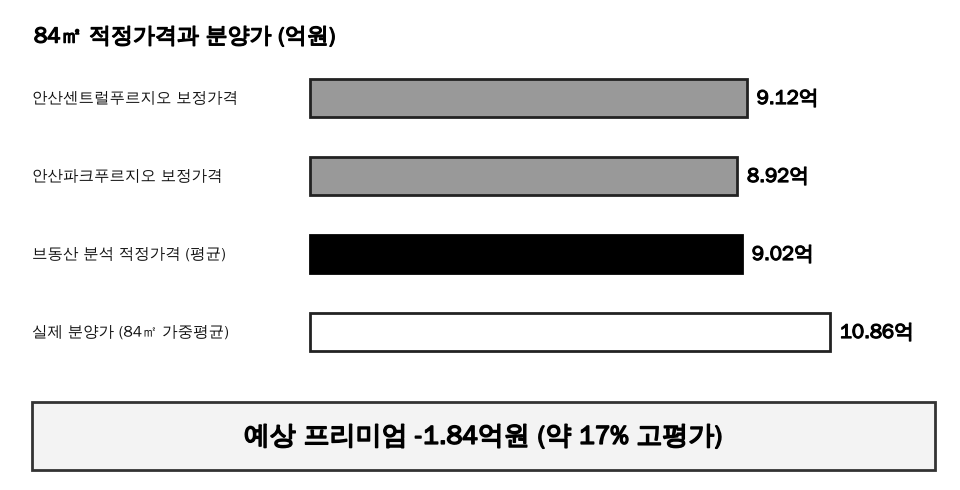
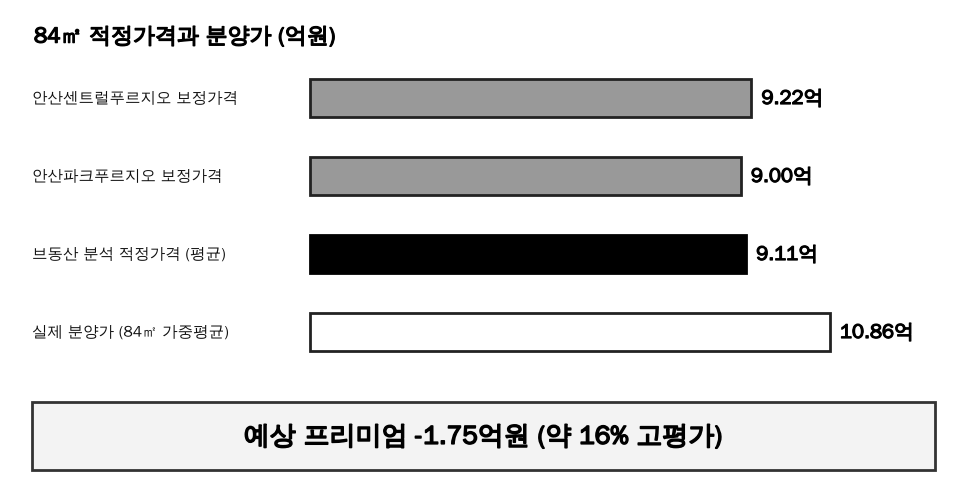
fix: 아르뮤제자이 상품성 breakdown (주차 확인 반영) -> 적정가 9.11억, 예상 프리미엄 -1.75억
Claude-Session: https://claude.ai/code/session_018qhGmvZYaq5WTE87hNjb3D

diff --git a/posts/armusee-xi-ansan.html b/posts/armusee-xi-ansan.html
@@ -200,7 +200,7 @@
 <body>
 <div class="top-eyebrow"><div class="wrap"><a class="brand-mark" href="https://brandongsan.com/"><span class="bm-b">브</span><span class="bm-rest">동산</span></a><a class="list-btn" href="https://brandongsan.com/realestate.html">☰ 목록</a></div></div>
 <div class="wrap">
-<div class="titleblock"><h1>경기 - 아르뮤제자이 | 안산 성포동 984세대 49층, 84㎡ 평균 분양가 10.86억, 예상 프리미엄은 -1.84억</h1></div>
+<div class="titleblock"><h1>경기 - 아르뮤제자이 | 안산 성포동 984세대 49층, 84㎡ 평균 분양가 10.86억, 예상 프리미엄은 -1.75억</h1></div>
 <div class="byline"><span class="avatar">브</span><span class="who">브동산</span><span class="dot">·</span><span class="when">2026. 11. 2</span><span class="tag">청약 언박싱 No.083</span></div>
 </div>
 <div class="hairline"></div>
@@ -221,17 +221,17 @@
 <div><dt>01 · 사업 개요</dt><dd>경기도 안산시 상록구 성포동 586번지 일원, 옛 홈플러스 안산점 부지에 들어서는 주상복합이다. 시행은 우리자산신탁, 시공은 GS건설이며 <strong>지하 6층~지상 49층 6개동</strong> 중 아파트 4개동 984세대가 일반분양이고 오피스텔 370실은 별도 분양이다. 입주는 <strong>2031년 3월</strong> 예정이다.</dd></div>
 <div><dt>02 · 공급 구성</dt><dd>전용 84㎡ <strong>358세대</strong>(84A 180·84B 88·84C 90), 99㎡ 452세대(99A 180·99B 272), 104㎡ 174세대다. 특별공급 271세대, 일반공급 713세대이며 비규제지역·분양가상한제 미적용·재당첨제한 없음·전매제한 6개월·거주의무 없음이다.</dd></div>
 <div><dt>03 · 청약 현황</dt><dd>2026년 11월 12일 입주자모집공고. 특별공급 11월 23일, 1순위 11월 24일, 2순위 11월 25일, 당첨자 발표 12월 1일, 정당계약 12월 13~15일이다. 84㎡는 1순위 가점제 40%·추첨제 60%, 99·104㎡는 추첨제 100%다.</dd></div>
-<div><dt>04 · 가격 판단</dt><dd>84㎡ 공급금액은 층별 10.34억~11.05억원, 세대수 가중평균 <strong>10.86억원</strong>이다. 브동산 적정가 <strong>9.02억원</strong>보다 1.84억원 높아 <strong>예상 프리미엄은 -1.84억(약 17% 고평가)</strong>이다.</dd></div>
+<div><dt>04 · 가격 판단</dt><dd>84㎡ 공급금액은 층별 10.34억~11.05억원, 세대수 가중평균 <strong>10.86억원</strong>이다. 브동산 적정가 <strong>9.11억원</strong>보다 1.75억원 높아 <strong>예상 프리미엄은 -1.75억(약 16% 고평가)</strong>이다.</dd></div>
 <div><dt>05 · 비교 기준</dt><dd>고잔동 중앙역 인근의 안산센트럴푸르지오와 같은 성포동의 안산파크푸르지오(둘 다 2018년 입주) 전용 84㎡ KB시세 일반거래가(2026.11.13 조회)를 비교했다.</dd></div>
 </dl>
-<div class="stat-pair"><div class="stat-box"><div class="sk">브동산 적정가 (84㎡)</div><div class="sv">9.02<span style="font-size:15px;font-weight:400;"> 억원</span></div><div class="premium">예상 프리미엄 -1.84억</div><div class="sbar"><div style="width:83%"></div></div></div><div class="stat-box"><div class="sk">실제 분양가 (84㎡, 세대수 가중평균)</div><div class="sv">10.86<span style="font-size:15px;font-weight:400;"> 억원</span></div><div class="sbar"><div style="width:100%"></div></div><span class="delta">적정가보다 약 17% 높음</span></div></div>
+<div class="stat-pair"><div class="stat-box"><div class="sk">브동산 적정가 (84㎡)</div><div class="sv">9.11<span style="font-size:15px;font-weight:400;"> 억원</span></div><div class="premium">예상 프리미엄 -1.75억</div><div class="sbar"><div style="width:84%"></div></div></div><div class="stat-box"><div class="sk">실제 분양가 (84㎡, 세대수 가중평균)</div><div class="sv">10.86<span style="font-size:15px;font-weight:400;"> 억원</span></div><div class="sbar"><div style="width:100%"></div></div><span class="delta">적정가보다 약 16% 높음</span></div></div>
 <div class="map-wrap"><img src="images/armusee-xi-ansan/chart-map-naver.png" alt="아르뮤제자이 위치 개략도" style="width:100%;display:block;"></div>
 <div class="cover-cap">지도: SITE·비교단지 2곳·역·학교 상대 위치 — 브동산이 공식 위치도와 KB 단지 좌표를 바탕으로 자체 제작한 개략도(축척·형태는 개략적 표현이며 실제 지도가 아니다)</div>
-<div class="radar-wrap"><svg viewBox="0 0 240 260" role="img" aria-label="입지, 브랜드, 상품성, 연식 4개 축으로 본 아르뮤제자이 비교 레이더 차트"><g><polygon points="120,30 210,120 120,210 30,120" fill="none" stroke="#E3E3E3" stroke-width="1"/><polygon points="120,48.0 192.0,120 120,192.0 48.0,120" fill="none" stroke="#E3E3E3" stroke-width="1"/><polygon points="120,66.0 174.0,120 120,174.0 66.0,120" fill="none" stroke="#E3E3E3" stroke-width="1"/><polygon points="120,84.0 156.0,120 120,156.0 84.0,120" fill="none" stroke="#E3E3E3" stroke-width="1"/><polygon points="120,102.0 138.0,120 120,138.0 102.0,120" fill="none" stroke="#E3E3E3" stroke-width="1"/></g><polygon points="120.0,75.0 210.0,120.0 120.0,178.5 67.1,120.0" fill="none" stroke="#555555" stroke-width="1.5" stroke-dasharray="5 3"/><polygon points="120.0,54.8 210.0,120.0 120.0,183.0 68.8,120.0" fill="none" stroke="#8A8A8A" stroke-width="1.5" stroke-dasharray="1.5 3"/><polygon points="120.0,77.2 210.0,120.0 120.0,192.0 30.0,120.0" fill="rgba(17,17,17,0.08)" stroke="#111111" stroke-width="2"/><text x="120" y="20" text-anchor="middle" font-size="12" fill="#555555">입지</text><text x="222" y="124" text-anchor="middle" font-size="12" fill="#555555">브랜드</text><text x="120" y="228" text-anchor="middle" font-size="12" fill="#555555">상품성</text><text x="18" y="124" text-anchor="middle" font-size="12" fill="#555555">연식</text></svg><div class="radar-legend"><span class="lg-item"><i class="lg-swatch lg-site"></i>SITE · 아르뮤제자이</span><span class="lg-item"><i class="lg-swatch lg-c1"></i>안산센트럴푸르지오</span><span class="lg-item"><i class="lg-swatch lg-c2"></i>안산파크푸르지오</span></div></div>
-<div class="bridge-wrap"><svg viewBox="0 0 640 310" role="img" aria-label="비교단지 현재시세가 평점·연령 보정을 거쳐 SITE 적정가로 이어지는 과정을 보여주는 브동산 적정가 산출 브릿지 차트"><rect x="0" y="0" width="640" height="310" fill="#FAFAFA"/><line x1="290.14" y1="20" x2="290.14" y2="219" stroke="#BBBBBB" stroke-width="1" stroke-dasharray="3 3"/><text x="0" y="36" font-size="12.5" font-weight="800" fill="#111111">안산센트럴푸르지오</text><text x="276.57" y="52" text-anchor="middle" font-size="10.5" fill="#8A8A8A">평점·연령 ×1.048</text><line x1="250.28" y1="66" x2="302.85" y2="66" stroke="#555555" stroke-width="1.5"/><circle cx="250.28" cy="66" r="5.5" fill="#FFFFFF" stroke="#555555" stroke-width="2"/><rect x="297.85" y="61" width="10" height="10" fill="#111111"/><polygon points="297.85,66 289.85,63 289.85,69" fill="#555555"/><text x="260.28" y="84" text-anchor="start" font-size="11" fill="#8A8A8A">8.70억</text><text x="292.85" y="84" text-anchor="end" font-size="11" font-weight="700" fill="#111111">9.12억</text><text x="0" y="122" font-size="12.5" font-weight="800" fill="#111111">안산파크푸르지오</text><text x="197.91" y="138" text-anchor="middle" font-size="10.5" fill="#8A8A8A">평점·연령 ×1.166</text><line x1="118.39" y1="152" x2="277.43" y2="152" stroke="#555555" stroke-width="1.5"/><circle cx="118.39" cy="152" r="5.5" fill="#FFFFFF" stroke="#555555" stroke-width="2"/><rect x="272.43" y="147" width="10" height="10" fill="#111111"/><polygon points="272.43,152 264.43,149 264.43,155" fill="#555555"/><text x="128.39" y="170" text-anchor="start" font-size="11" fill="#8A8A8A">7.65억</text><text x="267.43" y="170" text-anchor="end" font-size="11" font-weight="700" fill="#111111">8.92억</text><line x1="0" y1="194" x2="640" y2="194" stroke="#E3E3E3" stroke-width="1"/><text x="0" y="218" font-size="12.5" font-weight="800" fill="#111111">아르뮤제자이 (SITE)</text><text x="405.88" y="234" text-anchor="middle" font-size="11" font-weight="800" fill="#111111">예상 프리미엄 -1.84억</text><line x1="290.14" y1="248" x2="521.61" y2="248" stroke="#111111" stroke-width="2"/><circle cx="521.61" cy="248" r="5.5" fill="#FFFFFF" stroke="#111111" stroke-width="2"/><path d="M 284.14 248 L 290.14 242 L 296.14 248 L 290.14 254 Z" fill="#111111"/><polygon points="297.14,248 305.14,245 305.14,251" fill="#111111"/><text x="281.14" y="270" text-anchor="end" font-size="11" font-weight="800" fill="#111111">적정가 9.02억</text><text x="530.61" y="270" text-anchor="start" font-size="11" fill="#8A8A8A">실제분양가 10.86억</text><text x="0" y="298" font-size="10.5" fill="#8A8A8A">○=시세(KB 일반거래가)/실제분양가 · ■=평점·연령 보정 후 보정가격 · ◆=SITE 적정가(두 보정가격 평균) · 점선=적정가 기준선</text></svg></div><div class="cover-cap">적정가 산출 브릿지: 비교단지 시세가 평점·연령 보정을 거쳐 보정가격이 되고, 그 평균이 SITE 적정가가 되는 과정 — 브동산 모형 자체 시각화</div>
-<div class="tablewrap"><table><thead><tr><th>평가 항목</th><th>SITE · 아르뮤제자이<br><span class="note" style="margin-top:2px;">(GS건설·984세대·2031년 3월 입주예정)</span></th><th>안산센트럴푸르지오<br><span class="note" style="margin-top:2px;">(대우건설·990세대·2018년 4월 준공)</span></th><th>안산파크푸르지오<br><span class="note" style="margin-top:2px;">(대우건설·1,129세대·2018년 9월 준공)</span></th></tr></thead><tbody><tr><td>입지(40)</td><td class="figure">19</td><td class="figure">29</td><td class="figure">20</td></tr><tr><td>브랜드(20)</td><td class="figure">20</td><td class="figure">20</td><td class="figure">20</td></tr><tr><td>상품성(40)</td><td class="figure">32</td><td class="figure">28</td><td class="figure">26</td></tr><tr><td>종합평점</td><td class="figure"><b>71</b></td><td class="figure">77</td><td class="figure">66</td></tr><tr><td>연식 가산율</td><td class="figure">기준(신축)</td><td class="figure">12년11개월차 · ×1.1150</td><td class="figure">12년6개월차 · ×1.1100</td></tr><tr><td>평점 보정</td><td class="figure">-</td><td class="figure">×0.94</td><td class="figure">×1.05</td></tr><tr><td>84㎡ 기준가</td><td class="figure">-</td><td class="figure">8.70억(KB 일반거래가)</td><td class="figure">7.65억(KB 일반거래가)</td></tr><tr><td>보정가격</td><td class="figure">-</td><td class="figure">9.12억</td><td class="figure">8.92억</td></tr></tbody></table></div>
-<p class="note">기준가는 KB시세 일반거래가(2026.11.13 조회)이고, 연식 보정은 SITE 입주예정월 2031년 3월과 비교단지 준공월의 차이(155개월·150개월)에 브동산 공식을 적용했다. 두 보정가격 평균이 적정가 9.02억원이다. 공고 전 글에서는 SITE의 중앙역 거리를 확인하지 못해 교통을 12점으로 뒀으나, 공식 위치도와 보도(도보 약 15~20분)로 약 1km로 확인돼 4점으로 낮췄다. 같은 이유로 공고 전 적정가 9.40억원이 9.02억원으로 바뀌었다. 최근 실거래는 안산센트럴푸르지오 84㎡가 11월 5일 9.2억원(두 보도 일치), 안산파크푸르지오 84㎡가 11월 10일 7.6억원(한 보도)으로 보도됐고 KB시세와 큰 차이가 없다.</p>
-<ul class="plain"><li><b>입지:</b> SITE는 중앙역(4호선·수인분당선)까지 직선 약 1km, 도보 15~20분이라 교통 4점이다. 롯데백화점·롯데마트·문화예술 시설이 가깝고 노적봉공원이 맞닿는 점을 반영해 입지 19점이다. 안산센트럴푸르지오는 중앙역 약 400m대라 29점, 안산파크푸르지오는 20점이다.</li><li><b>브랜드:</b> GS건설 자이와 대우건설 푸르지오는 모두 대기업 상위 브랜드로 20점이다.</li><li><b>상품성:</b> 49층 초고층과 CLUB XIAN 등 커뮤니티를 반영해 32점이다. 오피스텔 370실이 같은 단지에 있다. 지하주차장은 아파트 1,477대로 세대당 약 1.5대다.</li><li><b>가격:</b> 분양가 가중평균 10.86억원은 두 비교단지 보정가격(9.12억·8.92억원)보다 높다. 분양가상한제를 적용받지 않은 민간 자율 분양가라 층·동에 따라 10.34억~11.05억원으로 갈린다. 예상 프리미엄 -1.84억원은 계약금(5%, 약 0.54억원)을 크게 넘는 폭이라 별도 완화 없이 그대로 서술한다.</li></ul></section>
+<div class="radar-wrap"><svg viewBox="0 0 240 260" role="img" aria-label="입지, 브랜드, 상품성, 연식 4개 축으로 본 아르뮤제자이 비교 레이더 차트"><g><polygon points="120,30 210,120 120,210 30,120" fill="none" stroke="#E3E3E3" stroke-width="1"/><polygon points="120,48.0 192.0,120 120,192.0 48.0,120" fill="none" stroke="#E3E3E3" stroke-width="1"/><polygon points="120,66.0 174.0,120 120,174.0 66.0,120" fill="none" stroke="#E3E3E3" stroke-width="1"/><polygon points="120,84.0 156.0,120 120,156.0 84.0,120" fill="none" stroke="#E3E3E3" stroke-width="1"/><polygon points="120,102.0 138.0,120 120,138.0 102.0,120" fill="none" stroke="#E3E3E3" stroke-width="1"/></g><polygon points="120.0,75.0 210.0,120.0 120.0,178.5 67.1,120.0" fill="none" stroke="#555555" stroke-width="1.5" stroke-dasharray="5 3"/><polygon points="120.0,54.8 210.0,120.0 120.0,183.0 68.8,120.0" fill="none" stroke="#8A8A8A" stroke-width="1.5" stroke-dasharray="1.5 3"/><polygon points="120.0,77.2 210.0,120.0 120.0,194.2 30.0,120.0" fill="rgba(17,17,17,0.08)" stroke="#111111" stroke-width="2"/><text x="120" y="20" text-anchor="middle" font-size="12" fill="#555555">입지</text><text x="222" y="124" text-anchor="middle" font-size="12" fill="#555555">브랜드</text><text x="120" y="228" text-anchor="middle" font-size="12" fill="#555555">상품성</text><text x="18" y="124" text-anchor="middle" font-size="12" fill="#555555">연식</text></svg><div class="radar-legend"><span class="lg-item"><i class="lg-swatch lg-site"></i>SITE · 아르뮤제자이</span><span class="lg-item"><i class="lg-swatch lg-c1"></i>안산센트럴푸르지오</span><span class="lg-item"><i class="lg-swatch lg-c2"></i>안산파크푸르지오</span></div></div>
+<div class="bridge-wrap"><svg viewBox="0 0 640 310" role="img" aria-label="비교단지 현재시세가 평점·연령 보정을 거쳐 SITE 적정가로 이어지는 과정을 보여주는 브동산 적정가 산출 브릿지 차트"><rect x="0" y="0" width="640" height="310" fill="#FAFAFA"/><line x1="301.56" y1="20" x2="301.56" y2="219" stroke="#BBBBBB" stroke-width="1" stroke-dasharray="3 3"/><text x="0" y="36" font-size="12.5" font-weight="800" fill="#111111">안산센트럴푸르지오</text><text x="282.66" y="52" text-anchor="middle" font-size="10.5" fill="#8A8A8A">평점·연령 ×1.059</text><line x1="250.28" y1="66" x2="315.04" y2="66" stroke="#555555" stroke-width="1.5"/><circle cx="250.28" cy="66" r="5.5" fill="#FFFFFF" stroke="#555555" stroke-width="2"/><rect x="310.04" y="61" width="10" height="10" fill="#111111"/><polygon points="310.04,66 302.04,63 302.04,69" fill="#555555"/><text x="260.28" y="84" text-anchor="start" font-size="11" fill="#8A8A8A">8.70억</text><text x="305.04" y="84" text-anchor="end" font-size="11" font-weight="700" fill="#111111">9.22억</text><text x="0" y="122" font-size="12.5" font-weight="800" fill="#111111">안산파크푸르지오</text><text x="203.24" y="138" text-anchor="middle" font-size="10.5" fill="#8A8A8A">평점·연령 ×1.177</text><line x1="118.39" y1="152" x2="288.09" y2="152" stroke="#555555" stroke-width="1.5"/><circle cx="118.39" cy="152" r="5.5" fill="#FFFFFF" stroke="#555555" stroke-width="2"/><rect x="283.09" y="147" width="10" height="10" fill="#111111"/><polygon points="283.09,152 275.09,149 275.09,155" fill="#555555"/><text x="128.39" y="170" text-anchor="start" font-size="11" fill="#8A8A8A">7.65억</text><text x="278.09" y="170" text-anchor="end" font-size="11" font-weight="700" fill="#111111">9.00억</text><line x1="0" y1="194" x2="640" y2="194" stroke="#E3E3E3" stroke-width="1"/><text x="0" y="218" font-size="12.5" font-weight="800" fill="#111111">아르뮤제자이 (SITE)</text><text x="411.59" y="234" text-anchor="middle" font-size="11" font-weight="800" fill="#111111">예상 프리미엄 -1.75억</text><line x1="301.56" y1="248" x2="521.61" y2="248" stroke="#111111" stroke-width="2"/><circle cx="521.61" cy="248" r="5.5" fill="#FFFFFF" stroke="#111111" stroke-width="2"/><path d="M 295.56 248 L 301.56 242 L 307.56 248 L 301.56 254 Z" fill="#111111"/><polygon points="308.56,248 316.56,245 316.56,251" fill="#111111"/><text x="292.56" y="270" text-anchor="end" font-size="11" font-weight="800" fill="#111111">적정가 9.11억</text><text x="530.61" y="270" text-anchor="start" font-size="11" fill="#8A8A8A">실제분양가 10.86억</text><text x="0" y="298" font-size="10.5" fill="#8A8A8A">○=시세(KB 일반거래가)/실제분양가 · ■=평점·연령 보정 후 보정가격 · ◆=SITE 적정가(두 보정가격 평균) · 점선=적정가 기준선</text></svg></div><div class="cover-cap">적정가 산출 브릿지: 비교단지 시세가 평점·연령 보정을 거쳐 보정가격이 되고, 그 평균이 SITE 적정가가 되는 과정 — 브동산 모형 자체 시각화</div>
+<div class="tablewrap"><table><thead><tr><th>평가 항목</th><th>SITE · 아르뮤제자이<br><span class="note" style="margin-top:2px;">(GS건설·984세대·2031년 3월 입주예정)</span></th><th>안산센트럴푸르지오<br><span class="note" style="margin-top:2px;">(대우건설·990세대·2018년 4월 준공)</span></th><th>안산파크푸르지오<br><span class="note" style="margin-top:2px;">(대우건설·1,129세대·2018년 9월 준공)</span></th></tr></thead><tbody><tr><td>입지(40)</td><td class="figure">19</td><td class="figure">29</td><td class="figure">20</td></tr><tr><td>브랜드(20)</td><td class="figure">20</td><td class="figure">20</td><td class="figure">20</td></tr><tr><td>상품성(40)</td><td class="figure">33</td><td class="figure">28</td><td class="figure">26</td></tr><tr><td>종합평점</td><td class="figure"><b>72</b></td><td class="figure">77</td><td class="figure">66</td></tr><tr><td>연식 가산율</td><td class="figure">기준(신축)</td><td class="figure">12년11개월차 · ×1.1150</td><td class="figure">12년6개월차 · ×1.1100</td></tr><tr><td>평점 보정</td><td class="figure">-</td><td class="figure">×0.95</td><td class="figure">×1.06</td></tr><tr><td>84㎡ 기준가</td><td class="figure">-</td><td class="figure">8.70억(KB 일반거래가)</td><td class="figure">7.65억(KB 일반거래가)</td></tr><tr><td>보정가격</td><td class="figure">-</td><td class="figure">9.22억</td><td class="figure">9.00억</td></tr></tbody></table></div>
+<p class="note">기준가는 KB시세 일반거래가(2026.11.13 조회)이고, 연식 보정은 SITE 입주예정월 2031년 3월과 비교단지 준공월의 차이(155개월·150개월)에 브동산 공식을 적용했다. 두 보정가격 평균이 적정가 9.11억원이다. 공고 전 글에서는 SITE의 중앙역 거리를 확인하지 못해 교통을 12점으로 뒀으나, 공식 위치도와 보도(도보 약 15~20분)로 약 1km로 확인돼 4점으로 낮췄다. 같은 이유와 기준가 갱신, 세대당 주차 확인(상품성 +1)으로 공고 전 적정가 9.40억원이 9.11억원으로 바뀌었다. 최근 실거래는 안산센트럴푸르지오 84㎡가 11월 5일 9.2억원(두 보도 일치), 안산파크푸르지오 84㎡가 11월 10일 7.6억원(한 보도)으로 보도됐고 KB시세와 큰 차이가 없다.</p>
+<ul class="plain"><li><b>입지:</b> SITE는 중앙역(4호선·수인분당선)까지 직선 약 1km, 도보 15~20분이라 교통 4점이다. 롯데백화점·롯데마트·문화예술 시설이 가깝고 노적봉공원이 맞닿는 점을 반영해 입지 19점이다. 안산센트럴푸르지오는 중앙역 약 400m대라 29점, 안산파크푸르지오는 20점이다.</li><li><b>브랜드:</b> GS건설 자이와 대우건설 푸르지오는 모두 대기업 상위 브랜드로 20점이다.</li><li><b>상품성:</b> 상품수준 10점(전세대 발코니 확장 무상, 피트니스·GX룸·독서실·사우나·스카이라운지 등 CLUB XIAN 커뮤니티), 조망 9점(안산 최고 49층이고 비교단지는 37·35층, 노적봉공원이 맞닿음), 세대수 6점(984세대), 주차 5점(아파트 1,477대, 세대당 약 1.5대), 건폐율은 공고에서 확인하지 못해 중립 3점으로 합계 33점이다. 비교단지의 세대당 주차는 1.67대·1.44대다. 상품수준·조망은 모형 상한(각 10점)에 가깝게 줬고, 오피스텔 370실이 같은 단지에 있어 조망은 만점을 주지 않았다.</li><li><b>가격:</b> 분양가 가중평균 10.86억원은 두 비교단지 보정가격(9.22억·9.00억원)보다 높다. 분양가상한제를 적용받지 않은 민간 자율 분양가라 층·동에 따라 10.34억~11.05억원으로 갈린다. 예상 프리미엄 -1.75억원은 계약금(5%, 약 0.54억원)을 크게 넘는 폭이다. 이 폭은 1.5억원보다 더 큰 마이너스 구간이라 별도 완화 없이 그대로 서술한다.</li></ul></section>
 <section id="s2"><h2>2. 입지 분석</h2><p class="lede">경기도 안산시 상록구 성포동, 옛 홈플러스 안산점 부지다. 안산 구도심 중심권의 핵심 상업용지를 개발하는 부지 개발형 주상복합이다. 공고상 일반상업지역·시가지경관지구이고 대지면적은 26,165㎡다.</p>
 <p>교통은 4호선·수인분당선 중앙역과 한대앞역 사이에 있고 공식 위치도 기준 중앙역까지 직선 약 1km다. 시행사 쪽 안내와 보도는 도보 약 15~20분(아시아타임즈)으로 전한다. 성포역은 신안산선 예정역이고 GTX-C 상록수역, 인천발 KTX 초지역 정차도 예정·계획 사업이라 점수에 반영하지 않았다.</p>
 <p>생활권은 롯데백화점·롯데마트·안산버스터미널과 안산문화예술의전당, 단원 김홍도 미술관이 가깝고 노적봉공원이 단지와 맞닿는다. 위치도에 경일초·경수중이 인근 학교로 표시되지만 배정 학교는 교육지원청 확인이 필요하다.</p>
@@ -251,7 +251,7 @@
 <div class="stat-pair"><div class="stat-box"><div class="sk">특별공급</div><div class="sv num">271<span style="font-size:15px;font-weight:400;"> 세대</span></div><div class="sbar"><div style="width:28%"></div></div></div><div class="stat-box"><div class="sk">일반공급 (84㎡ 167)</div><div class="sv num">713<span style="font-size:15px;font-weight:400;"> 세대</span></div><div class="sbar"><div style="width:72%"></div></div></div></div>
 <p>특별공급 271세대는 기관추천 35·다자녀가구 97·신혼부부 53·노부모부양 27·생애최초 24·신생아 35세대다. 84㎡ 일반공급은 84A 82·84B 43·84C 42세대이고 99㎡A 157·99B 237·104㎡ 152세대가 일반공급이다.</p>
 <p>보도에 따르면 안산의 대규모 민간 분양은 2023년 12월 이후 약 3년 만이다. 안산신길2 지구에서는 같은 시기에 LH 공공분양이 따로 공급된다. 비교단지인 2018년 입주 푸르지오 두 곳의 84㎡가 KB시세 기준 7.65억~8.70억원인 만큼 분양가 10.86억원을 어떻게 받아들일지가 관건이다.</p></section>
-<section id="s5"><h2>5. 결론</h2><div class="split"><div class="box"><h3>강점</h3><ul class="plain"><li>안산 구도심 중심 상업용지의 49층 신축 대단지, GS건설 자이 브랜드</li><li>비규제지역에 재당첨제한·거주의무가 없고 전매제한도 6개월로 짧음</li><li>전세대 발코니 확장 무상, 아파트 세대당 주차 약 1.5대</li><li>롯데백화점·문화예술 시설·노적봉공원이 가까운 생활권</li></ul></div><div class="box"><h3>리스크</h3><ul class="plain"><li>84㎡ 분양가 가중평균 10.86억원이 모형 적정가 9.02억원보다 약 1.84억원 높음</li><li>중앙역까지 직선 약 1km, 도보 15~20분으로 역세권이 아님</li><li>분양가상한제를 받지 않은 자율 분양가, 층별 최대 0.7억원 차이</li><li>오피스텔 370실 동시 공급, 중도금 6회에 입주까지 약 4년 3개월</li></ul></div></div><p>아르뮤제자이는 84㎡ 가중평균 분양가가 브동산 적정가보다 약 1.84억원(약 17%) 높은 단지다. 예상 프리미엄 -1.84억원은 계약금 수준을 넘는 큰 마피 폭이라 단기 차익을 기대하기 어렵고, 신축 상품성과 입지를 감안해도 분양가 부담이 크다. 청약 자격이 되더라도 자금 계획과 입주까지의 기간, 시장 흐름을 함께 보고 판단하는 것이 좋다.</p></section>
+<section id="s5"><h2>5. 결론</h2><div class="split"><div class="box"><h3>강점</h3><ul class="plain"><li>안산 구도심 중심 상업용지의 49층 신축 대단지, GS건설 자이 브랜드</li><li>비규제지역에 재당첨제한·거주의무가 없고 전매제한도 6개월로 짧음</li><li>전세대 발코니 확장 무상, 아파트 세대당 주차 약 1.5대</li><li>롯데백화점·문화예술 시설·노적봉공원이 가까운 생활권</li></ul></div><div class="box"><h3>리스크</h3><ul class="plain"><li>84㎡ 분양가 가중평균 10.86억원이 모형 적정가 9.11억원보다 약 1.75억원 높음</li><li>중앙역까지 직선 약 1km, 도보 15~20분으로 역세권이 아님</li><li>분양가상한제를 받지 않은 자율 분양가, 층별 최대 0.7억원 차이</li><li>오피스텔 370실 동시 공급, 중도금 6회에 입주까지 약 4년 3개월</li></ul></div></div><p>아르뮤제자이는 84㎡ 가중평균 분양가가 브동산 적정가보다 약 1.75억원(약 16%) 높은 단지다. 예상 프리미엄 -1.75억원은 계약금 수준을 넘는 큰 마피 폭이라 단기 차익을 기대하기 어렵고, 신축 상품성과 입지를 감안해도 분양가 부담이 크다. 청약 자격이 되더라도 자금 계획과 입주까지의 기간, 시장 흐름을 함께 보고 판단하는 것이 좋다.</p></section>
 <section id="related"><h2>부동산이야기의 다른 포스팅</h2><div class="related-list"><a class="related-item" href="pyeongtaek-godeok-woomi-lynn-premier.html"><span class="r-tag">청약 언박싱 No.082</span><span class="r-title">경기 - 평택 고덕 우미 린 더 프리미어 | 고덕 국제화계획지구 623세대 분양가상한제, 84㎡ 평균 분양가 5.82억, 예상 프리미엄은 +1.1억</span></a><a class="related-item" href="hanwha-forena-jije.html"><span class="r-tag">청약 언박싱 No.081</span><span class="r-title">경기 - 한화포레나 지제역 | 평택 세교동 1,098세대, 84㎡ 평균 분양가 6.95억, 예상 프리미엄은 +0.58억</span></a><a class="related-item" href="hillstate-isu-central.html"><span class="r-tag">청약 언박싱 No.080</span><span class="r-title">서울 - 힐스테이트 이수역센트럴 | 사당동 931세대 중 일반분양 170세대, 84㎡ 평균 분양가 21.67억, 예상 프리미엄은 +3.08억</span></a><a class="related-item" href="acro-de-seocho.html"><span class="r-tag">청약 언박싱 No.079</span><span class="r-title">서울 - 아크로 드 서초 | 강남역 더블역세권 59㎡ 56가구, 예상 프리미엄은 +14.50억</span></a></div><div class="list-more"><a class="btn-list" href="https://brandongsan.com/realestate.html">부동산이야기 목록 전체보기</a></div></section>
 </div>
 

diff --git a/naver-html/armusee-xi-ansan.html b/naver-html/armusee-xi-ansan.html
@@ -2,13 +2,13 @@
 <html lang="ko"><head><meta charset="utf-8"><meta name="robots" content="noindex,nofollow">
 <!--
 slug: armusee-xi-ansan
-title: 아르뮤제자이 | 예상프리미엄 -1.84억, 분양가 평면 총정리
+title: 아르뮤제자이 | 예상프리미엄 -1.75억, 분양가 평면 총정리
 category: 부동산
 naver_category: 부동산이야기
 tags: 아르뮤제자이,안산성포동,안산청약,상록구,GS건설,자이,홈플러스안산점부지,안산센트럴푸르지오,안산파크푸르지오,중앙역,84분양가,민간분양,부동산정보
 cover_candidates: aerial-cg.jpg
 -->
-<title>아르뮤제자이 | 예상프리미엄 -1.84억, 분양가 평면 총정리 — 네이버 블로그 복사용</title>
+<title>아르뮤제자이 | 예상프리미엄 -1.75억, 분양가 평면 총정리 — 네이버 블로그 복사용</title>
 <style>
 body{font-family:'Malgun Gothic','Apple SD Gothic Neo',sans-serif;line-height:1.8;font-size:16px;color:#111;max-width:720px;margin:0 auto;padding:24px;}
 h1{font-size:26px;}
@@ -28,19 +28,19 @@ li{margin:8px 0;}
 <body>
 
 <p style="color:#8A8A8A;font-size:13px;">브동산 · 청약 언박싱 No.083 · 2026. 11. 13 (2026.11.12 공고 기준)</p>
-<h1>아르뮤제자이 | 예상프리미엄 -1.84억, 분양가 평면 총정리</h1>
+<h1>아르뮤제자이 | 예상프리미엄 -1.75억, 분양가 평면 총정리</h1>
 
 <p>&nbsp;</p>
 
-<h2>1. 결론부터 — 이 단지 예상 프리미엄은 -1.84억</h2>
+<h2>1. 결론부터 — 이 단지 예상 프리미엄은 -1.75억</h2>
 
 <p>안산 성포동 옛 홈플러스 부지에 들어서는 GS건설 자이 단지, 전용 84㎡를 브동산 모형으로 따져봤다. 신축 대단지지만 분양가가 비교단지 시세를 한참 웃도는 구간이 나왔다.</p>
 
-<div class="stat"><div class="note">브동산 분석 적정가격 (84㎡)</div><div class="v">9.02억원</div></div>
+<div class="stat"><div class="note">브동산 분석 적정가격 (84㎡)</div><div class="v">9.11억원</div></div>
 <div class="stat"><div class="note">실제 분양가 (84㎡, 세대수 가중평균)</div><div class="v">10.86억원</div></div>
-<div class="stat"><div class="note">예상 프리미엄</div><div class="v">-1.84억원</div><div>약 17% 고평가</div></div>
+<div class="stat"><div class="note">예상 프리미엄</div><div class="v">-1.75억원</div><div>약 16% 고평가</div></div>
 
-<p>브동산이 분석한 이 단지의 적정가격은 <b>9.02억원</b>, 실제 분양가는 <b>10.86억원</b>으로, <b>예상 프리미엄은 -1.84억원(약 17% 고평가)</b>입니다.</p>
+<p>브동산이 분석한 이 단지의 적정가격은 <b>9.11억원</b>, 실제 분양가는 <b>10.86억원</b>으로, <b>예상 프리미엄은 -1.75억원(약 16% 고평가)</b>입니다.</p>
 
 <p>&nbsp;</p>
 
@@ -89,7 +89,7 @@ li{margin:8px 0;}
 <img src="https://www.brandongsan.com/posts/images/armusee-xi-ansan/chart-a-score.png" alt="아르뮤제자이 평점 비교표: 입지·브랜드·상품성·종합평점">
 <p class="note">입지 40점·브랜드 20점·상품성 40점, 100점 만점 기준 브동산 모형 자체 산정.</p>
 
-<p><b>종합평점은 SITE 71점, 안산센트럴푸르지오 77점, 안산파크푸르지오 66점.</b> 센트럴은 SITE보다 점수가 높아 시세를 6% 깎고, 파크는 낮아서 5% 올려 반영했다.</p>
+<p><b>종합평점은 SITE 72점, 안산센트럴푸르지오 77점, 안산파크푸르지오 66점.</b> 센트럴은 SITE보다 점수가 높아 시세를 5% 깎고, 파크는 낮아서 6% 올려 반영했다.</p>
 
 <p>&nbsp;</p>
 
@@ -97,14 +97,14 @@ li{margin:8px 0;}
 <thead><tr><th>구분</th><th>안산센트럴푸르지오</th><th>안산파크푸르지오</th></tr></thead>
 <tbody>
 <tr><td>84㎡ 기준 거래(KB 일반거래가)</td><td>8.70억</td><td>7.65억</td></tr>
-<tr><td>평점 보정</td><td>×0.940</td><td>×1.050</td></tr>
+<tr><td>평점 보정</td><td>×0.950</td><td>×1.060</td></tr>
 <tr><td>연령 보정</td><td>155개월 · ×1.115</td><td>150개월 · ×1.110</td></tr>
-<tr><td><b>보정가격</b></td><td><b>9.12억</b></td><td><b>8.92억</b></td></tr>
+<tr><td><b>보정가격</b></td><td><b>9.22억</b></td><td><b>9.00억</b></td></tr>
 </tbody>
 </table>
-<p class="note">연령 보정은 SITE 입주예정월(2031.03)과 비교단지 준공월의 차이에 브동산 공식을 적용했다. 공고 전 글에서 쓴 교통 12점은 중앙역 거리를 확인하지 못한 가정이었고, 거리가 약 1km로 확인돼 4점으로 낮췄다.</p>
+<p class="note">연령 보정은 SITE 입주예정월(2031.03)과 비교단지 준공월의 차이에 브동산 공식을 적용했다. 공고 전 글에서 쓴 교통 12점은 중앙역 거리를 확인하지 못한 가정이었고, 거리가 약 1km로 확인돼 4점으로 낮췄다. 상품성 33점은 상품수준 10·조망 9·세대수 6·주차 5(1,477대, 세대당 약 1.5대)·건폐율 3(공고 미기재, 중립)이며, 비교단지는 세대당 주차 1.67대·1.44대, 최고 37·35층이다.</p>
 
-<p><b>두 보정가격은 9.12억과 8.92억, 평균인 브동산 분석 적정가격은 9.02억원.</b> 실제 분양가 10.86억원과의 차이가 곧 <b>예상 프리미엄 -1.84억원</b>이다.</p>
+<p><b>두 보정가격은 9.22억과 9.00억, 평균인 브동산 분석 적정가격은 9.11억원.</b> 실제 분양가 10.86억원과의 차이가 곧 <b>예상 프리미엄 -1.75억원</b>이다.</p>
 
 <p>&nbsp;</p>
 
@@ -115,9 +115,9 @@ li{margin:8px 0;}
 
 <h2>3. 브동산 한줄평</h2>
 
-<p><b>예상 프리미엄 -1.84억 — 신축 대단지의 상품성은 좋지만 지금 분양가는 모형 적정가를 크게 웃돈다. 실거주로 오래 살 각오가 아니라면 서두를 이유가 없다.</b></p>
+<p><b>예상 프리미엄 -1.75억 — 신축 대단지의 상품성은 좋지만 지금 분양가는 모형 적정가를 크게 웃돈다. 실거주로 오래 살 각오가 아니라면 서두를 이유가 없다.</b></p>
 
-<p>마피 폭 1.84억원은 계약금 5%(약 0.54억원)를 훌쩍 넘는다. 분양가상한제를 받지 않은 자율 분양가라 시장 상황과 판촉 조건에 따라 평가가 달라질 수 있어, 청약 경쟁률과 계약 이후 분위기를 지켜본 뒤 판단해도 늦지 않다. 비규제지역이라 전매제한이 6개월로 짧은 점은 장점이다.</p>
+<p>마피 폭 1.75억원은 계약금 5%(약 0.54억원)를 훌쩍 넘는다. 분양가상한제를 받지 않은 자율 분양가라 시장 상황과 판촉 조건에 따라 평가가 달라질 수 있어, 청약 경쟁률과 계약 이후 분위기를 지켜본 뒤 판단해도 늦지 않다. 비규제지역이라 전매제한이 6개월로 짧은 점은 장점이다.</p>
 
 <p>84㎡는 가점제 40%·추첨제 60%, 99·104㎡는 전량 추첨제다. 자격과 자금 계획은 공고문으로 직접 확인해야 한다.</p>
 
@@ -261,7 +261,7 @@ li{margin:8px 0;}
 
 <h2>6. 결론</h2>
 
-<p><b>상품성과 브랜드는 안산 최고 수준이지만, 84㎡ 분양가가 적정가격보다 1.84억원 높다. 실거주 수요가 아니라면 청약 결과와 시장 분위기를 지켜본 뒤 판단하자.</b></p>
+<p><b>상품성과 브랜드는 안산 최고 수준이지만, 84㎡ 분양가가 적정가격보다 1.75억원 높다. 실거주 수요가 아니라면 청약 결과와 시장 분위기를 지켜본 뒤 판단하자.</b></p>
 
 <p>자세한 평가표와 적정가격 산출 과정은 <a href="https://www.brandongsan.com/posts/armusee-xi-ansan.html">브동산 홈페이지</a>에서 확인하실 수 있습니다.</p>
 

diff --git a/posts-data.js b/posts-data.js
@@ -105,11 +105,11 @@ const POSTS = [
     category: "realestate",
     region: "경기",
     tag: "청약 언박싱 No.083",
-    title: "경기 - 아르뮤제자이 | 안산 성포동 984세대 49층, 84㎡ 평균 분양가 10.86억, 예상 프리미엄은 -1.84억",
+    title: "경기 - 아르뮤제자이 | 안산 성포동 984세대 49층, 84㎡ 평균 분양가 10.86억, 예상 프리미엄은 -1.75억",
     date: "2026-11-02",
     dateLabel: "2026. 11. 2",
     url: "posts/armusee-xi-ansan.html",
-    preview: `<p>2026년 11월 12일 입주자모집공고가 나왔다. 84㎡ 가중평균 분양가는 10.86억원으로 브동산 적정가 9.02억원보다 높아 예상 프리미엄은 -1.84억(약 17% 고평가)이다. 청약은 11월 23~25일, 입주는 2031년 3월 예정이다.</p>`
+    preview: `<p>2026년 11월 12일 입주자모집공고가 나왔다. 84㎡ 가중평균 분양가는 10.86억원으로 브동산 적정가 9.11억원보다 높아 예상 프리미엄은 -1.75억(약 16% 고평가)이다. 청약은 11월 23~25일, 입주는 2031년 3월 예정이다.</p>`
   },
   {
     id: "pyeongtaek-godeok-woomi-lynn-premier",
